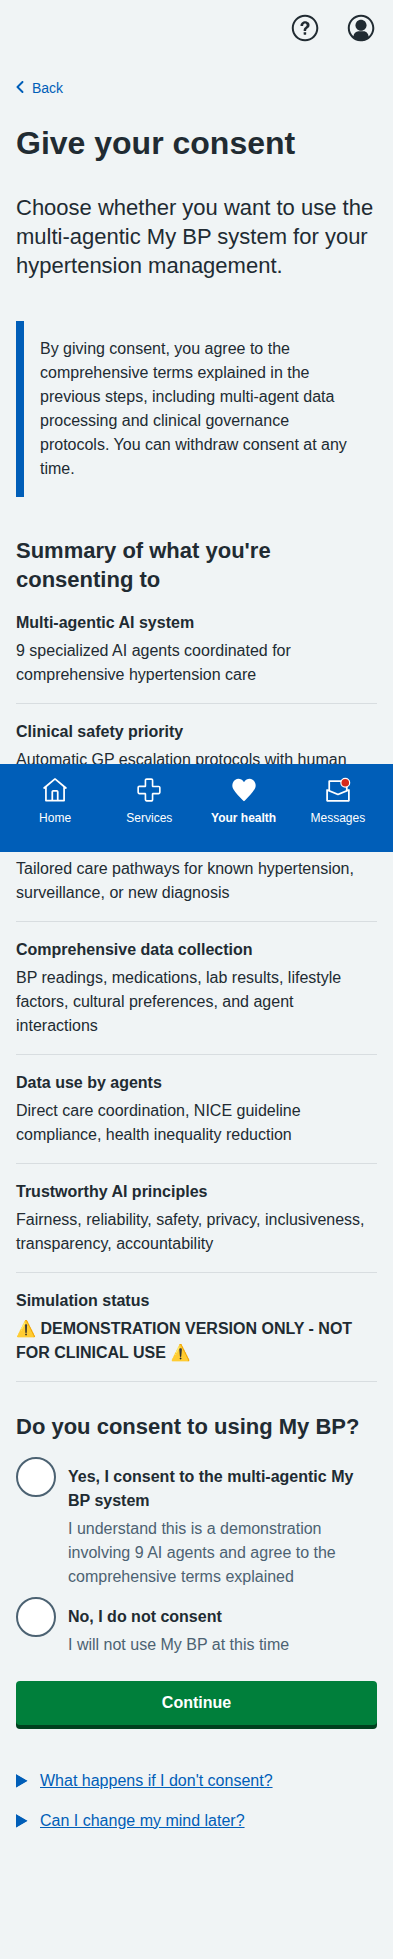
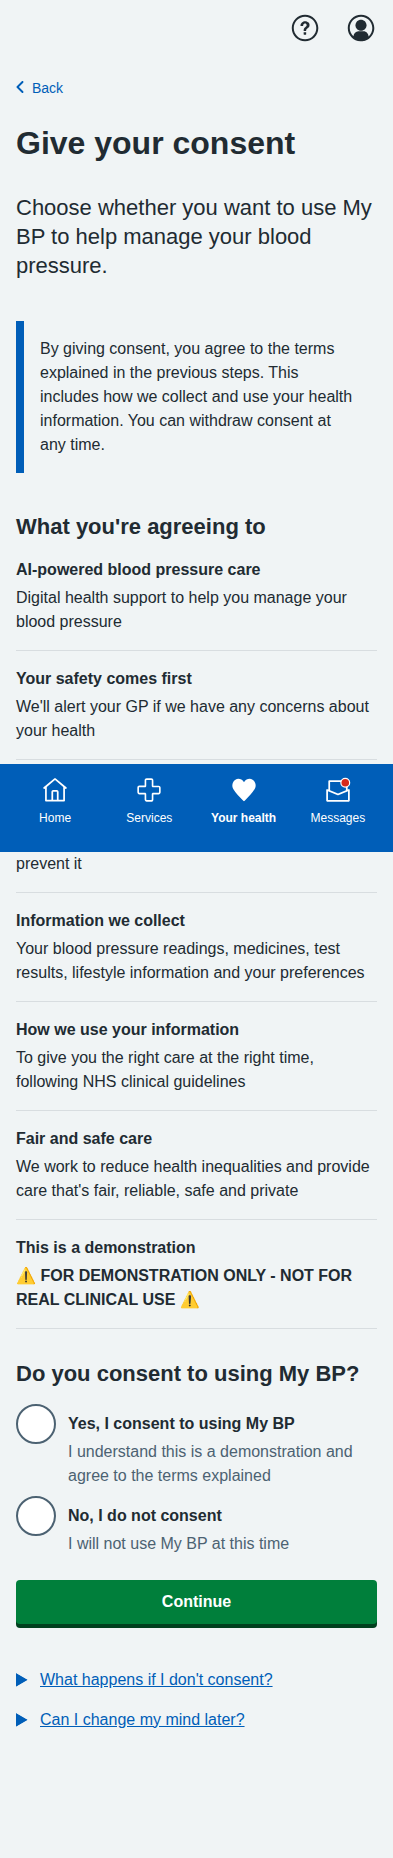
Remove jargon and use plain English in consent flow

diff --git a/prototype/v1/app/views/pages/mybp/onboarding/consent.html b/prototype/v1/app/views/pages/mybp/onboarding/consent.html
@@ -19,71 +19,71 @@
       </h1>
 
       <p class="nhsuk-lede-text">
-        Choose whether you want to use the multi-agentic My BP system for your hypertension management.
+        Choose whether you want to use My BP to help manage your blood pressure.
       </p>
 
       <div class="nhsuk-inset-text">
         <span class="nhsuk-u-visually-hidden">Information: </span>
-        <p>By giving consent, you agree to the comprehensive terms explained in the previous steps, including multi-agent data processing and clinical governance protocols. You can withdraw consent at any time.</p>
+        <p>By giving consent, you agree to the terms explained in the previous steps. This includes how we collect and use your health information. You can withdraw consent at any time.</p>
       </div>
 
-      <h2 class="nhsuk-heading-m">Summary of what you're consenting to</h2>
+      <h2 class="nhsuk-heading-m">What you're agreeing to</h2>
 
       <div class="nhsuk-summary-list">
         <div class="nhsuk-summary-list__row">
           <dt class="nhsuk-summary-list__key">
-            Multi-agentic AI system
+            AI-powered blood pressure care
           </dt>
           <dd class="nhsuk-summary-list__value">
-            9 specialized AI agents coordinated for comprehensive hypertension care
+            Digital health support to help you manage your blood pressure
           </dd>
         </div>
         <div class="nhsuk-summary-list__row">
           <dt class="nhsuk-summary-list__key">
-            Clinical safety priority
+            Your safety comes first
           </dt>
           <dd class="nhsuk-summary-list__value">
-            Automatic GP escalation protocols with human oversight
+            We'll alert your GP if we have any concerns about your health
           </dd>
         </div>
         <div class="nhsuk-summary-list__row">
           <dt class="nhsuk-summary-list__key">
-            Patient category management
+            Personalised care
           </dt>
           <dd class="nhsuk-summary-list__value">
-            Tailored care pathways for known hypertension, surveillance, or new diagnosis
+            Care that's right for your situation, whether you have high blood pressure or we're helping you prevent it
           </dd>
         </div>
         <div class="nhsuk-summary-list__row">
           <dt class="nhsuk-summary-list__key">
-            Comprehensive data collection
+            Information we collect
           </dt>
           <dd class="nhsuk-summary-list__value">
-            BP readings, medications, lab results, lifestyle factors, cultural preferences, and agent interactions
+            Your blood pressure readings, medicines, test results, lifestyle information and your preferences
           </dd>
         </div>
         <div class="nhsuk-summary-list__row">
           <dt class="nhsuk-summary-list__key">
-            Data use by agents
+            How we use your information
           </dt>
           <dd class="nhsuk-summary-list__value">
-            Direct care coordination, NICE guideline compliance, health inequality reduction
+            To give you the right care at the right time, following NHS clinical guidelines
           </dd>
         </div>
         <div class="nhsuk-summary-list__row">
           <dt class="nhsuk-summary-list__key">
-            Trustworthy AI principles
+            Fair and safe care
           </dt>
           <dd class="nhsuk-summary-list__value">
-            Fairness, reliability, safety, privacy, inclusiveness, transparency, accountability
+            We work to reduce health inequalities and provide care that's fair, reliable, safe and private
           </dd>
         </div>
         <div class="nhsuk-summary-list__row">
           <dt class="nhsuk-summary-list__key">
-            Simulation status
+            This is a demonstration
           </dt>
           <dd class="nhsuk-summary-list__value">
-            <strong>⚠ DEMONSTRATION VERSION ONLY - NOT FOR CLINICAL USE ⚠</strong>
+            <strong>⚠ FOR DEMONSTRATION ONLY - NOT FOR REAL CLINICAL USE ⚠</strong>
           </dd>
         </div>
       </div>
@@ -102,10 +102,10 @@
               <div class="nhsuk-radios__item">
                 <input class="nhsuk-radios__input" id="consent-yes" name="consent" type="radio" value="yes">
                 <label class="nhsuk-label nhsuk-radios__label" for="consent-yes">
-                  <strong>Yes, I consent to the multi-agentic My BP system</strong>
+                  <strong>Yes, I consent to using My BP</strong>
                 </label>
                 <div class="nhsuk-hint nhsuk-radios__hint" id="consent-yes-hint">
-                  I understand this is a demonstration involving 9 AI agents and agree to the comprehensive terms explained
+                  I understand this is a demonstration and agree to the terms explained
                 </div>
               </div>
 

diff --git a/prototype/v1/app/views/pages/mybp/onboarding/welcome.html b/prototype/v1/app/views/pages/mybp/onboarding/welcome.html
@@ -12,12 +12,12 @@
       </h1>
 
       <p class="nhsuk-lede-text">
-        Your multi-agentic AI hypertension management tool within the NHS App - completely free at the point of use.
+        Your AI-powered blood pressure management tool within the NHS App - completely free at the point of use.
       </p>
 
       <div class="nhsuk-inset-text">
         <span class="nhsuk-u-visually-hidden">Information: </span>
-        <p><strong>Clinical safety is our number one priority.</strong> My BP uses 9 specialized AI agents working together to support your hypertension care according to NICE guidelines.</p>
+        <p><strong>Clinical safety is our number one priority.</strong> My BP uses AI technology to support your blood pressure care according to NHS guidelines.</p>
       </div>
 
       <div class="nhsuk-care-card nhsuk-care-card--non-urgent">
@@ -44,21 +44,21 @@
       <details class="nhsuk-details">
         <summary class="nhsuk-details__summary">
           <span class="nhsuk-details__summary-text">
-            How does the multi-agentic AI system work?
+            How does the AI system work?
           </span>
         </summary>
         <div class="nhsuk-details__text">
-          <p>My BP uses 9 specialized AI agents coordinated by a central Orchestrating Agent:</p>
+          <p>My BP uses AI technology to provide different types of support:</p>
           <ul class="nhsuk-list nhsuk-list--bullet">
-            <li><strong>Orchestrating Agent</strong> - Central coordination with clinical safety priority</li>
-            <li><strong>BP Measurement Agent</strong> - Community monitoring coordination</li>
-            <li><strong>Diagnosing Agent</strong> - ABPM arrangement and diagnostic support</li>
-            <li><strong>Lifestyle Agent</strong> - Culturally-appropriate lifestyle interventions</li>
-            <li><strong>Shared Decision-Making Agent</strong> - Patient-centered treatment choices</li>
-            <li><strong>Titration Agent</strong> - Medication optimization following NICE protocols</li>
-            <li><strong>Monitoring Agent</strong> - Safety monitoring and blood test coordination</li>
-            <li><strong>Medication Adherence Agent</strong> - Compliance support and tracking</li>
-            <li><strong>Red Flag Agent</strong> - Emergency detection and immediate escalation</li>
+            <li><strong>Overall coordination</strong> - Making sure your care is safe and follows clinical guidelines</li>
+            <li><strong>Blood pressure tracking</strong> - Helping you monitor your readings</li>
+            <li><strong>Health assessments</strong> - Supporting diagnosis and monitoring</li>
+            <li><strong>Lifestyle support</strong> - Advice that fits your culture and daily life</li>
+            <li><strong>Treatment decisions</strong> - Helping you and your doctor choose the right treatment</li>
+            <li><strong>Medicine management</strong> - Optimising your medications safely</li>
+            <li><strong>Health monitoring</strong> - Coordinating tests and safety checks</li>
+            <li><strong>Medicine reminders</strong> - Helping you take medicines as prescribed</li>
+            <li><strong>Emergency alerts</strong> - Immediate help if something urgent comes up</li>
           </ul>
         </div>
       </details>

diff --git a/prototype/v1/app/views/pages/mybp/onboarding/disclaimer.html b/prototype/v1/app/views/pages/mybp/onboarding/disclaimer.html
@@ -53,14 +53,14 @@
 
       <h2 class="nhsuk-heading-m">Demonstration scope</h2>
 
-      <p>This MVP demonstrates the potential of multi-agentic AI systems while adhering to Microsoft's Trustworthy AI principles. The demo showcases:</p>
+      <p>This demonstration shows how AI technology could support blood pressure care while following Microsoft's responsible AI principles. The demo showcases:</p>
 
       <ul class="nhsuk-list nhsuk-list--bullet">
-        <li><strong>Orchestration of 9 specialized agents</strong> supporting hypertension care</li>
-        <li><strong>Three patient categories:</strong> Known hypertension, normotensive surveillance, newly detected elevated BP</li>
-        <li><strong>Clinical safety protocols</strong> with automatic GP escalation</li>
-        <li><strong>NICE guideline compliance</strong> and British National Formulary protocols</li>
-        <li><strong>Health inequality reduction</strong> through accessible, culturally-appropriate care</li>
+        <li><strong>AI coordination</strong> supporting blood pressure care</li>
+        <li><strong>Three patient situations:</strong> Managing existing high blood pressure, monitoring normal blood pressure, or dealing with newly detected high readings</li>
+        <li><strong>Safety first</strong> with automatic GP alerts when needed</li>
+        <li><strong>NHS guidelines</strong> and approved medication protocols</li>
+        <li><strong>Fair access to care</strong> through accessible, culturally-appropriate support</li>
       </ul>
 
       <h2 class="nhsuk-heading-m">Dummy data notification</h2>

diff --git a/prototype/v1/app/views/pages/mybp/onboarding/data-usage.html b/prototype/v1/app/views/pages/mybp/onboarding/data-usage.html
@@ -19,7 +19,7 @@
       </h1>
 
       <p class="nhsuk-lede-text">
-        Comprehensive overview of how we collect, use, and protect your data in the multi-agentic My BP system.
+        Overview of how we collect, use, and protect your information in My BP.
       </p>
 
       <div class="nhsuk-inset-text">
@@ -137,7 +137,7 @@
         <li>Improve AI agent performance and safety protocols</li>
         <li>Enhance cultural appropriateness of lifestyle interventions</li>
         <li>Optimize resource allocation in underserved communities</li>
-        <li>Research effectiveness of multi-agentic care coordination</li>
+        <li>Research effectiveness of AI-supported care coordination</li>
       </ul>
 
       <details class="nhsuk-details">
